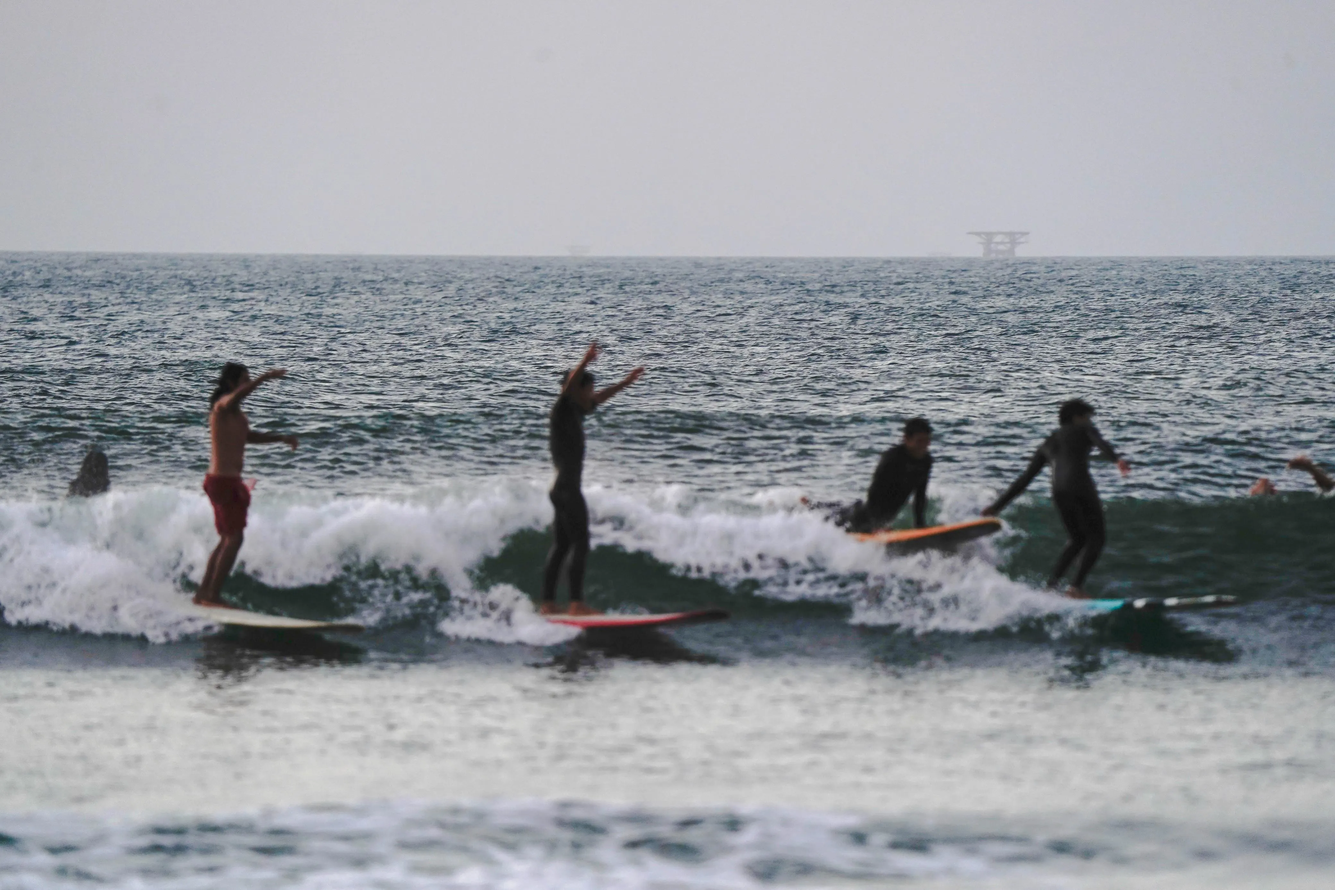
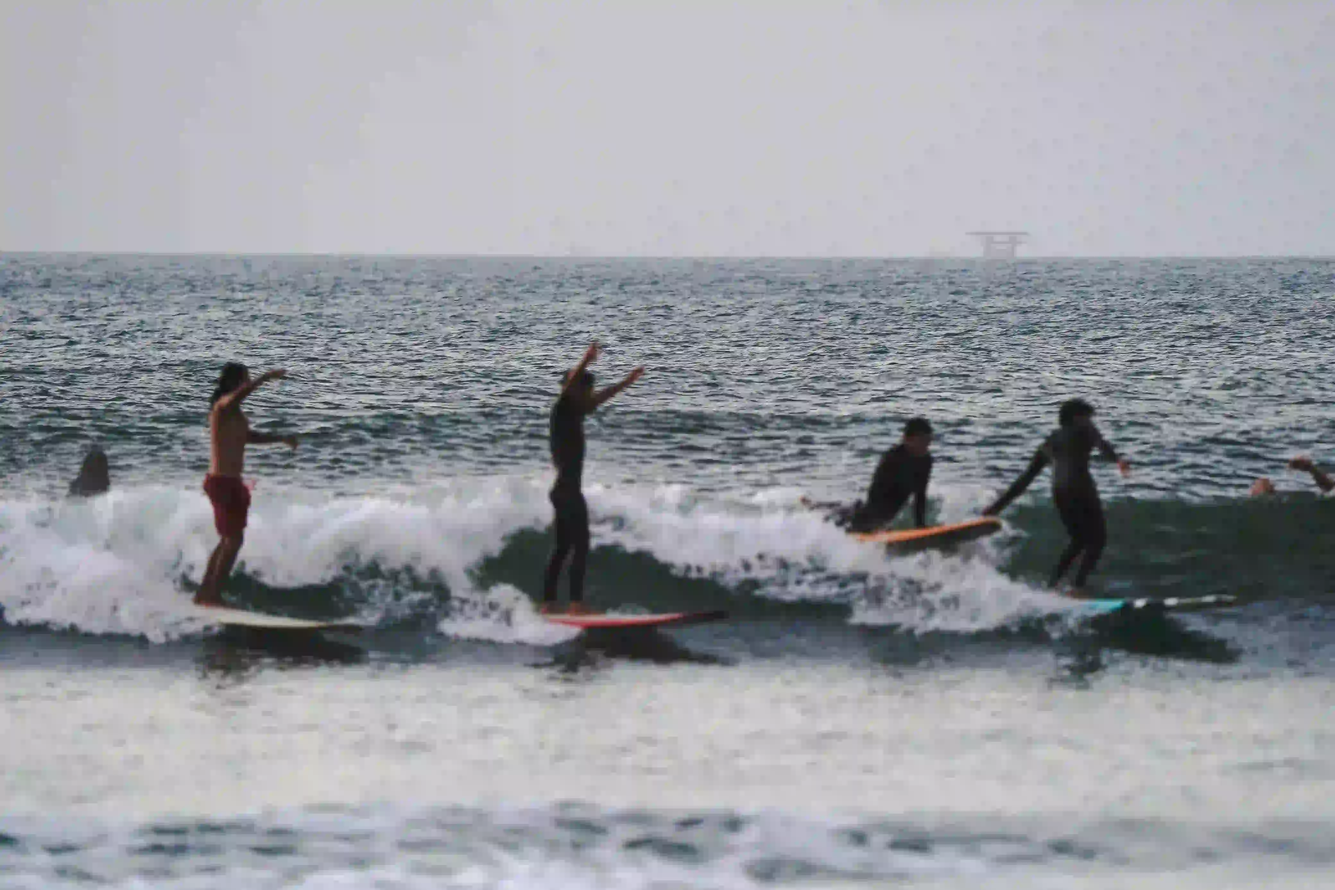
v22

Changed region(s): [[0.0, 0.31, 1.0, 0.465]]

diff --git a/index.html b/index.html
@@ -120,7 +120,8 @@
   <div id="mobile-menu"
     class="fixed inset-0 w-screen h-[100dvh] bg-[#07131D]/95 backdrop-blur-2xl z-[110] flex flex-col items-center justify-center gap-6 opacity-0 pointer-events-none transition-opacity duration-500 md:hidden">
     <button id="close-menu-btn"
-      class="absolute top-8 right-6 text-white hover:text-[#00E5FF] p-2 z-[130] focus:outline-none md:hidden">
+      class="absolute top-8 right-6 text-white hover:text-[#00E5FF] p-2 z-[130] focus:outline-none md:hidden"
+      aria-label="Cerrar menú de navegación">
       <svg class="w-10 h-10" fill="none" stroke="currentColor" viewBox="0 0 24 24">
         <path stroke-linecap="round" stroke-linejoin="round" stroke-width="2" d="M6 18L18 6M6 6l12 12"></path>
       </svg>
@@ -154,7 +155,7 @@
       <div class="animate-hero-slide extracted-style-11">
 
         <!-- Set A -->
-        <img src="img/hero.webp" class="extracted-style-12" alt="Surf Hero Principal">
+        <img src="img/hero.webp" class="extracted-style-12" alt="Surf Hero Principal" fetchpriority="high">
         <img src="img/hero1.webp" class="extracted-style-12" alt="Surf 1">
         <img src="img/hero2.webp" class="extracted-style-12" alt="Surf 2">
         <img src="img/hero3.webp" class="extracted-style-12" alt="Surf 3">
@@ -875,6 +876,7 @@
             <iframe
               src="https://www.google.com/maps/embed?pb=!1m18!1m12!1m3!1d3977.766904100696!2d-81.29110498896057!3d-4.454402847278513!2m3!1f0!2f0!3f0!3m2!1i1024!2i768!4f13.1!3m3!1m2!1s0xa33809f8b386267f%3A0xcfef819a63f154bd!2sSurf%20Fun%20Lobitos!5e0!3m2!1ses!2spe!4v1780604506787!5m2!1ses!2spe"
               class="map-editorial-iframe w-full h-full grayscale opacity-80 hover:grayscale-0 hover:opacity-100 transition-all duration-700"
+              title="Mapa interactivo con la ubicación de Surf Fun Experience en Lobitos"
               style="border:0;" allowfullscreen="" loading="lazy" referrerpolicy="no-referrer-when-downgrade"></iframe>
           </div>
         </div>
